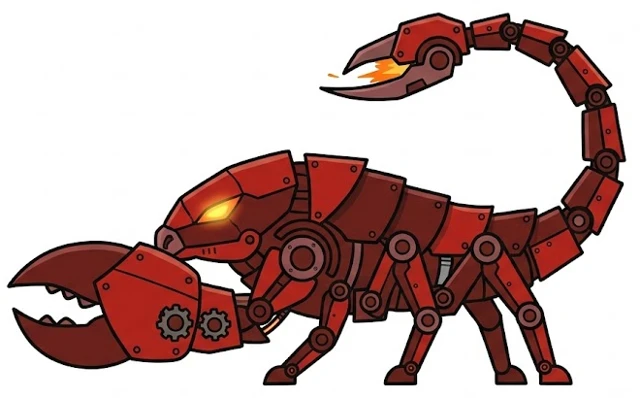
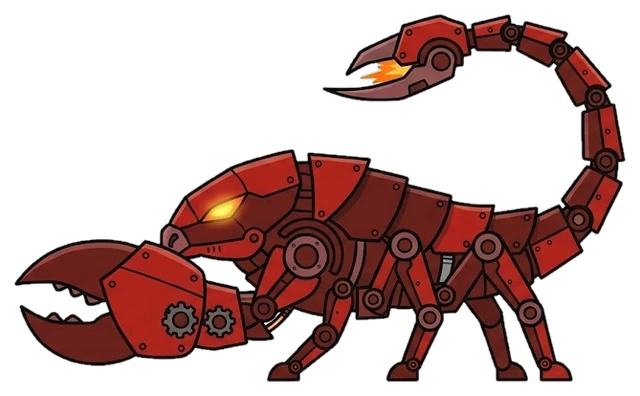
Обложки боссов: Голем, Скорпион, Дракон — чистые вырезки по новым картинкам
Claude-Session: https://claude.ai/code/session_01BjYnbX4uBfMiwFWVFLxRNj

diff --git a/arena.js b/arena.js
@@ -673,7 +673,7 @@
     const dmg = F ? F.dmg : 0;
     grindOff();
     r.classList.add('aresult', won ? 'won' : 'lost'); stageWrap.hidden = true;
-    const art = el('div', 'rart'); const im = el('img'); im.src = `arena/${won ? B.key : 'bull'}.webp`; art.append(im);
+    const art = el('div', 'rart'); const im = el('img'); im.src = `arena/${won ? B.key : 'bull'}.webp?v=2`; art.append(im);
     const h = el('h2', 'rtitle', won ? 'ПОБЕДА!' : 'ПОРАЖЕНИЕ');
     const sub = el('div', 'rsub', won ? `${B.name} повержен` : `${B.name} дожал. Ничего не потеряно: карточки, где вы ошиблись, вернутся раньше`);
     r.append(art, h, sub);
@@ -687,7 +687,7 @@
       const lb = el('div', 'rloot');
       lb.append(el('div', 'muted small', got.length > 1 ? 'Без единой ошибки: двойная награда' : 'Награда'));
       const row = el('div', 'lrow');
-      got.forEach((k, i) => { const it = el('div', 'litem'); it.style.animationDelay = (0.3 + i * 0.25) + 's'; const ii = el('img'); ii.src = `arena/${k}.webp`; it.append(ii, el('span', '', MODS[k].name)); row.append(it); });
+      got.forEach((k, i) => { const it = el('div', 'litem'); it.style.animationDelay = (0.3 + i * 0.25) + 's'; const ii = el('img'); ii.src = `arena/${k}.webp?v=2`; it.append(ii, el('span', '', MODS[k].name)); row.append(it); });
       lb.append(row); r.append(lb);
       save();
     }
@@ -771,7 +771,7 @@
     const grid = $('#hubGrid'); grid.innerHTML = '';
     secs().map(bossInfo).forEach((x) => {
       const b = el('button', 'bcard ' + x.B.key + (x.beaten ? ' beaten' : '')); b.style.setProperty('--glow', x.B.glow);
-      const im = el('img'); im.src = `arena/${x.B.key}.webp`; im.alt = '';
+      const im = el('img'); im.src = `arena/${x.B.key}.webp?v=2`; im.alt = '';
       b.append(im, el('b', '', x.B.name), el('span', 'bs', secLabel(x.sec)), el('span', 'bst' + (x.mode === 'rev' ? ' due' : ''), x.beaten ? 'Повержен сегодня ✓' : statusText(x)));
       if (A.wins[x.sec]) b.append(el('span', 'bw', `побед: ${A.wins[x.sec]}`));
       b.onclick = () => fight(x.sec);
@@ -779,7 +779,7 @@
     });
     const mb = $('#hubMods'); mb.innerHTML = '';
     Object.entries(MODS).forEach(([k, m]) => {
-      const r = el('div', 'hmod'); const im = el('img'); im.src = `arena/${k}.webp`;
+      const r = el('div', 'hmod'); const im = el('img'); im.src = `arena/${k}.webp?v=2`;
       const t = el('div'); t.append(el('b', '', `${m.name} ×${A.items[k] || 0}`), el('span', 'muted small', m.what));
       r.append(im, t); mb.append(r);
     });
@@ -795,7 +795,7 @@
     const x = bossOfDay(); if (!x) return;
     home.style.setProperty('--glow', x.B.glow);
     home.innerHTML = '';
-    const im = el('img', 'hboss'); im.src = `arena/${x.B.key}.webp`; im.alt = '';
+    const im = el('img', 'hboss'); im.src = `arena/${x.B.key}.webp?v=2`; im.alt = '';
     const t = el('div', 'ht');
     t.append(el('div', 'hk', x.beaten ? 'Все боссы на сегодня повержены' : 'БОСС ДНЯ'), el('b', '', x.B.name), el('span', '', `${x.sec === SESSION ? 'Все разделы' : SEC_NAMES[x.sec]} · ${statusText(x)}`));
     const go = el('button', 'primary fightbtn', x.beaten ? 'Ещё бой' : 'В бой');

diff --git a/duel.js b/duel.js
@@ -209,7 +209,7 @@
     f.append(inp);
     const av = el('div', 'dl-av'); AVS.forEach((a) => { const b = el('button', a === P.av ? 'on' : '', a); b.onclick = () => { P.av = a; save(); renderProf(); hello(); }; av.append(b); }); f.append(av);
     top.append(f); c.append(top);
-    const fg = el('div', 'dl-fig'); FIGH.forEach(([k, n]) => { const b = el('button', k === P.fk ? 'on' : ''); const im = el('img'); im.src = `arena/${k}.webp`; im.alt = ''; b.append(im, el('span', '', n)); b.onclick = () => { P.fk = k; save(); renderProf(); hello(); }; fg.append(b); }); c.append(fg);
+    const fg = el('div', 'dl-fig'); FIGH.forEach(([k, n]) => { const b = el('button', k === P.fk ? 'on' : ''); const im = el('img'); im.src = `arena/${k}.webp?v=2`; im.alt = ''; b.append(im, el('span', '', n)); b.onclick = () => { P.fk = k; save(); renderProf(); hello(); }; fg.append(b); }); c.append(fg);
     const cols = el('div', 'dl-cols'); if (P.fk !== 'bull') cols.hidden = true; COLS.forEach(([n, h]) => { const b = el('button', h === P.col ? 'on' : ''); b.style.background = h; b.title = n; b.setAttribute('aria-label', n); b.onclick = () => { P.col = h; save(); renderProf(); hello(); }; cols.append(b); }); c.append(cols);
     preview(cv);
   }
@@ -244,7 +244,7 @@
       const col = el('div', 'dl-team'); col.append(el('div', 'th', 'Команда ' + (t ? 'Б' : 'А')));
       tm.forEach((x) => {
         const a = el('div', 'dl-pl'); a.style.setProperty('--c', x.col);
-        const fi = el('img', 'fi'); fi.src = `arena/${x.fk || 'bull'}.webp`; fi.alt = ''; a.append(fi, el('i', '', x.av), el('b', '', x.name + (x.id === myId ? ' (ты)' : '')));
+        const fi = el('img', 'fi'); fi.src = `arena/${x.fk || 'bull'}.webp?v=2`; fi.alt = ''; a.append(fi, el('i', '', x.av), el('b', '', x.name + (x.id === myId ? ' (ты)' : '')));
         if (x.id === myId) { const sw = el('button', 'sw', '⇄'); sw.title = 'Сменить команду'; sw.onclick = () => { if (isHost) { teamOf[myId] = 1 - t; rebuild(true); } else send({ t: 'team', team: 1 - t }); }; a.append(sw); }
         col.append(a);
       });

diff --git a/index.html b/index.html
@@ -16,8 +16,8 @@
 <script defer src="session1.js?v=1"></script>
 <script defer src="script.js?v=26"></script>
 <script defer src="rig.js?v=16"></script>
-<script defer src="arena.js?v=11"></script>
-<script defer src="duel.js?v=8"></script>
+<script defer src="arena.js?v=12"></script>
+<script defer src="duel.js?v=9"></script>
 </head>
 <body>
 
